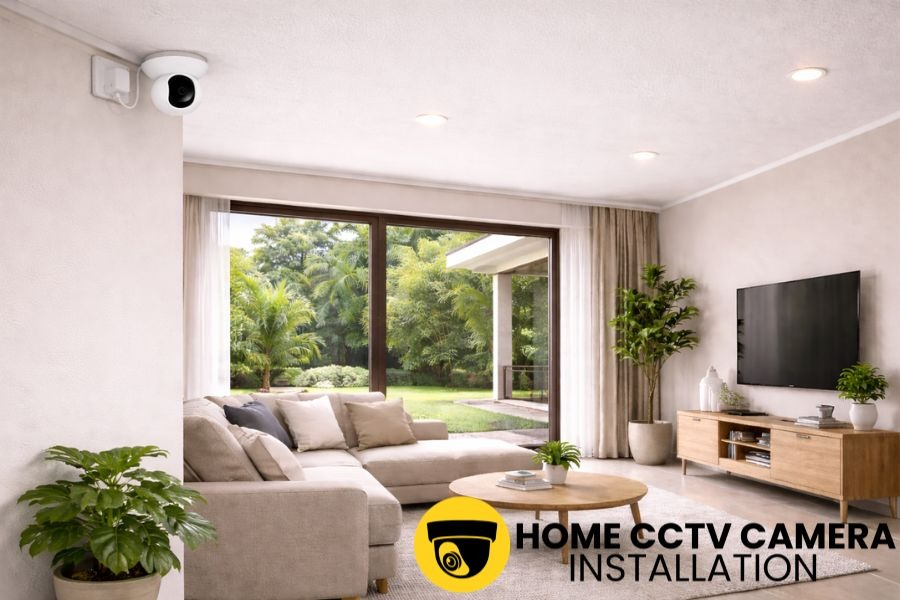
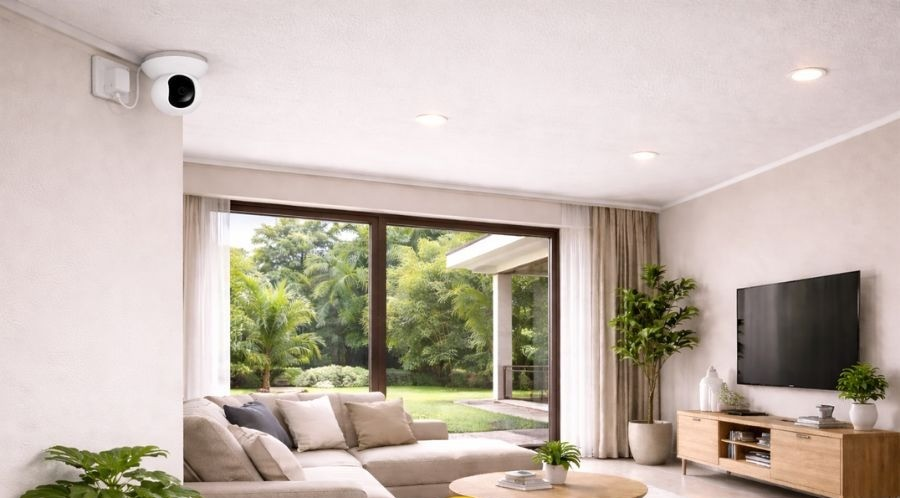
Remove yellow camera badge from Living Room gallery photo

diff --git a/style.css b/style.css
@@ -1372,7 +1372,7 @@ input, select, textarea, button {
 }
 
 /* Fallback background styles to act as "Wow" high-tech templates */
-.gp1 { background: url('/gallery-home-living-room.jpg') center/cover no-repeat; }
+.gp1 { background: url('/gallery-home-living-room.jpg?v=2') center/cover no-repeat; }
 .gp2 { background: radial-gradient(circle at top right, rgba(0, 245, 212, 0.25), transparent), linear-gradient(135deg, #0f2027, #203a43); }
 .gp3 { background: radial-gradient(circle at top right, rgba(255, 0, 127, 0.25), transparent), linear-gradient(135deg, #11998e, #1c2541); }
 .gp4 { background: radial-gradient(circle at top right, rgba(0, 180, 216, 0.25), transparent), linear-gradient(135deg, #1c2541, #0b132b); }

diff --git a/index.html b/index.html
@@ -528,7 +528,7 @@
       </div>
       <div class="gallery-grid" id="gallery-grid">
         <div class="gallery-item" data-category="home" id="gallery-1">
-          <div class="gallery-placeholder gp1" style="background-image: url('/gallery-home-living-room.jpg');">
+          <div class="gallery-placeholder gp1" style="background-image: url('/gallery-home-living-room.jpg?v=2');">
             <span class="gallery-label">🏠 Home Installation – Living Room</span>
           </div>
         </div>
